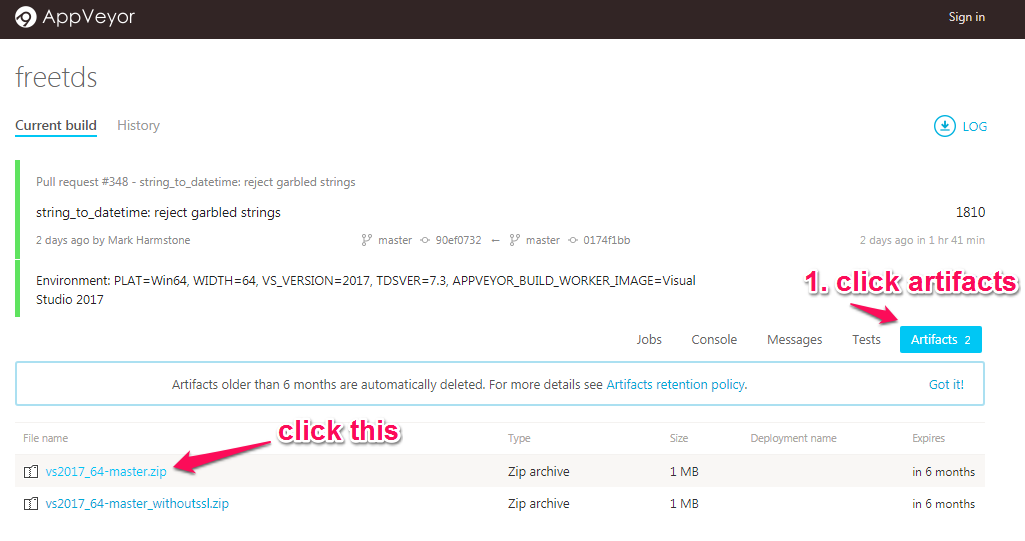
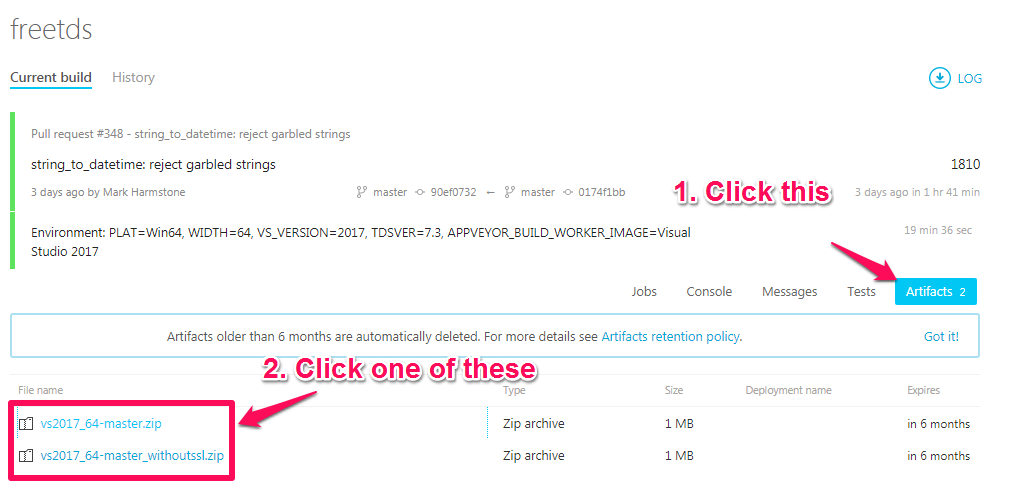
Finished FreeTDS test.

diff --git a/content/post/2020-05-13-error-invalid-descriptor-index.html b/content/post/2020-05-13-error-invalid-descriptor-index.html
@@ -250,7 +250,6 @@ dplyr::tbl(con, table) %&gt;%
   dplyr::select(-tidyselect::all_of(long_cols),
                 tidyselect::everything(),
                 tidyselect::all_of(long_cols))
-  
 }
 
 tbl_long_cols_3(con, &quot;problem_data&quot;) %&gt;% 
@@ -271,14 +270,72 @@ tbl_long_cols_3(con, &quot;problem_data&quot;) %&gt;%
 <p>Click one of the rows.</p>
 <p><img src="/post/2020-05-13-error-invalid-descriptor-index_files/free_tds_1.png" /></p>
 <ol start="2" style="list-style-type: decimal">
-<li>Click Artifacts and click a .zip file</li>
+<li>Click Artifacts and click a .zip file - I tried <code>vs2017_64-master.zip</code> variant but received an error when trying to register the driver dll. I <em>believe</em> this is due to the dependency on OpenSSL. I looked to install OpenSSL but it had quite a few dependencies that I didn’t feel like setting up (Perl and make for example)</li>
 </ol>
 <p><img src="/post/2020-05-13-error-invalid-descriptor-index_files/free_tds_2.png" /></p>
 <ol start="3" style="list-style-type: decimal">
-<li>Extract the contents of the zip file</li>
+<li><p>Extract the contents of the zip file</p></li>
+<li><p>Open a command prompt or PowerShell window and execute the following command:</p></li>
 </ol>
+<p><code>regsvr32 "C:\temp\vs2017_64-master\bin\tdsodbc.dll"</code></p>
+<ol start="5" style="list-style-type: decimal">
+<li>Success should yield a message like this:</li>
+</ol>
+<p><img src="/post/2020-05-13-error-invalid-descriptor-index_files/freetds_install_success.png" /></p>
+<ol start="6" style="list-style-type: decimal">
+<li>Verify that R can see the new driver</li>
+</ol>
+<pre class="r"><code>odbc::odbcListDrivers() %&gt;% 
+  dplyr::filter(name == &quot;FreeTDS&quot;)</code></pre>
+<pre><code>##      name        attribute value
+## 1 FreeTDS       UsageCount     2
+## 2 FreeTDS         APILevel     2
+## 3 FreeTDS ConnectFunctions   YYN
+## 4 FreeTDS    DriverODBCVer 03.00
+## 5 FreeTDS        FileUsage     0
+## 6 FreeTDS         SQLLevel     2</code></pre>
+<p>Let’s connect using the FreeTDS driver and verify the issue does not occur.</p>
+<p>NOTE: I had to make a couple changes, in addition to changing the driver to get
+this to work:</p>
+<ul>
+<li>Specified SQL port(typically this is 1433)</li>
+<li>Set the client character set to UTF-8 (referenced
+in <a href="https://lists.ibiblio.org/pipermail/freetds/2016q3/029980.html">this post</a>).</li>
+</ul>
+<pre class="r"><code>user_name &lt;-
+  keyring::key_list(&quot;dbi_test&quot;)$username
+
+con_freetds &lt;- DBI::dbConnect(
+      odbc::odbc(),
+      Driver = &quot;FreeTDS&quot;,
+      Server = &quot;testsqlserver&quot;,
+      UID = user_name,
+      PWD = keyring::key_get(&quot;dbi_test&quot;, user_name),
+      ClientCharset = &quot;UTF-8&quot;,
+      port = 1433,
+      Database = &quot;dbi_error&quot;
+   )
+
+dplyr::tbl(con_freetds,&quot;problem_data&quot;) %&gt;% 
+  collect()</code></pre>
+<pre><code>## # A tibble: 3 x 3
+##       a         b     c
+##   &lt;int&gt;    &lt;blob&gt; &lt;dbl&gt;
+## 1     1 &lt;raw 1 B&gt;     1
+## 2     2 &lt;raw 1 B&gt;     1
+## 3     3 &lt;raw 1 B&gt;     1</code></pre>
+<pre class="r"><code>DBI::dbDisconnect(con_freetds)</code></pre>
+<p>It works!</p>
+<p>A few NOTES:</p>
+<ul>
+<li><p>I think there may be an implication for extended (longer than 8-bit)
+character data when setting character set to 8-bit. I don’t know what that is.</p></li>
+<li><p>TODO: I am not <em>yet</em> sure if FreeTDS will work in a Windows domain joined
+environment. Will test this tomorrow.</p></li>
+</ul>
 <p>SOURCE: <a href="https://github.com/r-dbi/DBI/issues/315#issuecomment-639984938">Bill Even’s GitHub Issue post where he shares solution</a></p>
 <p>SOURCE: <a href="https://lists.ibiblio.org/pipermail/freetds/2016q3/029980.html">Setting up FreeTDS to work with ODBC Data Source Administrator on Windows 7</a></p>
+<p>SOURCE: <a href="https://www.freetds.org/userguide/osissues.html#Windows">FreeTDS user guide</a></p>
 </div>
 <div id="qa" class="section level1">
 <h1>Q&amp;A</h1>
